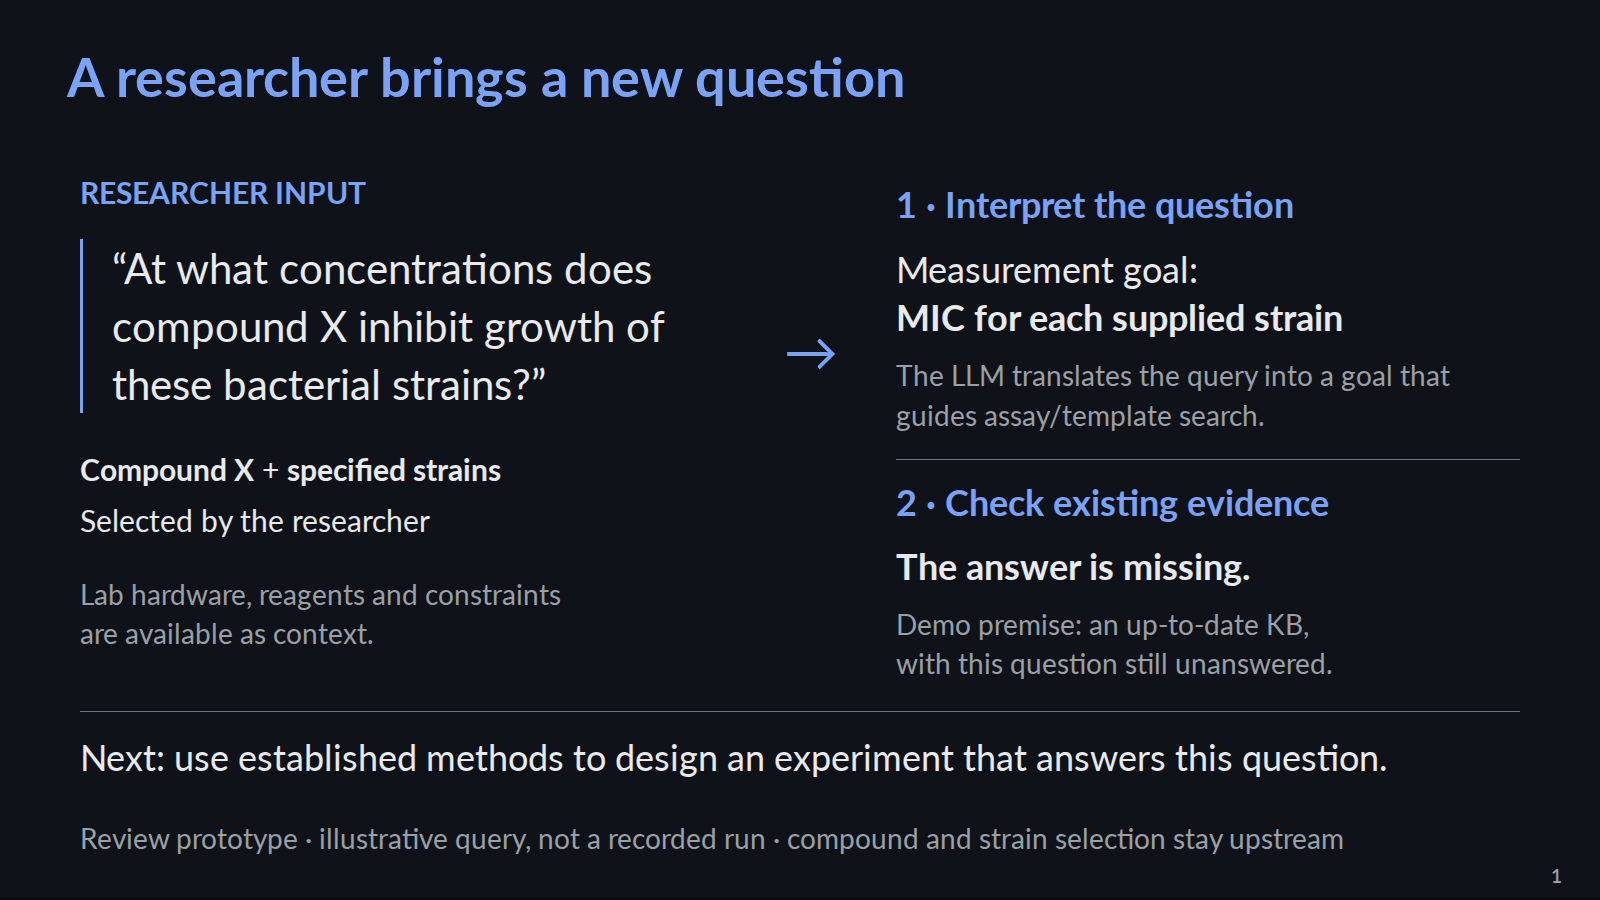
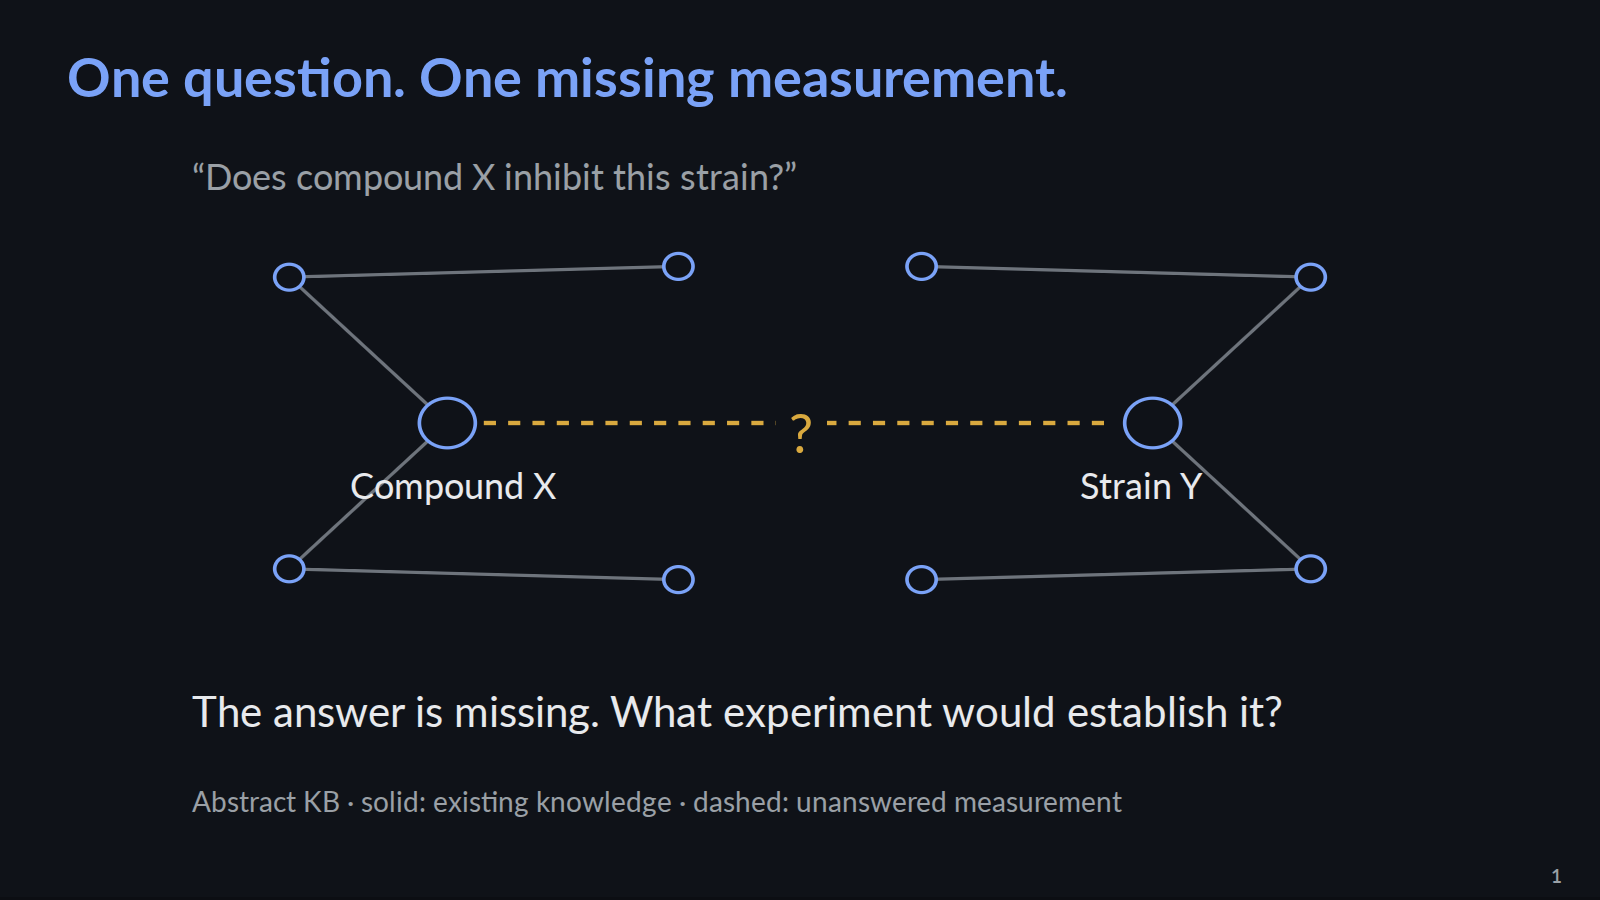
WIP: simplify question slide to an abstract missing-link sketch

diff --git a/slides/talks/question-prototype/story.js b/slides/talks/question-prototype/story.js
@@ -1,18 +1,9 @@
-// One review slide: researcher input, interpreted goal, explicit missing-answer premise.
-// TODO(final): replace the illustrative query with a reviewed demo query before claiming a recorded run.
+// Quick concept sketch: a question becomes a missing measurement in the KB.
+// TODO(final): abstract illustration only; these nodes are not a real graph export.
 {
-Deck.slide('researcher-question',{
- steps:3,
- notes:'Scope agreed in discussion: the researcher supplies the compound, bacterial strains and research query. Candidate ranking and strain selection are upstream. Lab context is already available in the repo. This is an illustrative input, not a recorded model response or an actual database search. For this demo we assume an up-to-date KB lacks the answer to a genuinely new question; establishing novelty via meta-analysis is out of scope. An LLM may interpret the natural-language goal to guide assay/template retrieval. A MIC measurement is the example goal, not a claim that every query maps to MIC. Existing evidence would be returned to the researcher, who decides whether to repeat an experiment. Known incompatibility must block downstream compilation/hardware. This slide ends before template selection and parameterization.',
- mount(frame,{css}){
- css(`.rq-query{position:absolute;left:5%;top:19%;width:42%;font-size:var(--t-lead);line-height:1.4}.rq-query blockquote{margin:.6em 0;padding-left:.7em;border-left:3px solid var(--accent)}.rq-label{font-size:var(--t-small);color:var(--accent);font-weight:700}.rq-inputs{font-size:var(--t-small);line-height:1.7;margin-top:1em}.rq-context{font-size:var(--t-caption);color:var(--muted);line-height:1.4}.rq-right{position:absolute;left:56%;right:5%;top:20%;font-size:var(--t-body);line-height:1.35}.rq-right h3{margin:0 0 .45em;font-size:var(--t-body);color:var(--accent)}.rq-right p{margin:.4em 0}.rq-goal{padding:0 0 .35em;border-bottom:1px solid var(--detail)}.rq-gap{margin-top:.5em}.rq-next{position:absolute;left:5%;right:5%;top:79%;font-size:var(--t-body);padding-top:.6em;border-top:1px solid var(--detail)}.rq-arrow{position:absolute;left:49%;top:35%;font-size:var(--t-heading);color:var(--accent)}.rq-caption{position:absolute;left:5%;right:5%;top:88%;font-size:var(--t-caption);color:var(--muted)}`);
- frame.innerHTML=`<h2 class="deck-heading">A researcher brings a new question</h2>
- <div class="rq-query"><div class="rq-label">RESEARCHER INPUT</div><blockquote>“At what concentrations does compound X inhibit growth of these bacterial strains?”</blockquote><div class="rq-inputs"><strong>Compound X</strong> + <strong>specified strains</strong><br>Selected by the researcher</div><p class="rq-context">Lab hardware, reagents and constraints<br>are available as context.</p></div>
- <div class="rq-arrow reveal-in" data-from="2">→</div>
- <div class="rq-right"><div class="rq-goal reveal-in" data-from="2"><h3>1 · Interpret the question</h3><p>Measurement goal:<br><strong>MIC for each supplied strain</strong></p><p class="rq-context">The LLM translates the query into a goal that guides assay/template search.</p></div><div class="rq-gap reveal-in" data-from="3"><h3>2 · Check existing evidence</h3><p><strong>The answer is missing.</strong></p><p class="rq-context">Demo premise: an up-to-date KB,<br>with this question still unanswered.</p></div></div>
- <div class="rq-next reveal-in" data-from="3">Next: use established methods to design an experiment that answers this question.</div>
- <p class="rq-caption">Review prototype · illustrative query, not a recorded run · compound and strain selection stay upstream</p>`;
- return{enter:(s,a)=>Deck.show(frame,s,a)};
- }
-});
+Deck.slide('missing-link',{steps:2,notes:'Abstract illustration, not measured data. Researcher supplies compound, strains and question. Solid links represent existing knowledge; dashed link marks the unanswered compound–strain measurement. The demo assumes an up-to-date KB. No claim that the model established scientific novelty.',mount(frame,{css}){
+css(`.ml-graph{position:absolute;left:12%;top:23%;width:76%;height:48%}.ml-graph svg{width:100%;height:100%;overflow:visible}.ml-edge{stroke:var(--detail);stroke-width:3}.ml-dot{fill:var(--bg);stroke:var(--accent);stroke-width:3}.ml-gap{stroke:var(--plot-2);stroke-width:4;stroke-dasharray:10 10}.ml-label{position:absolute;font-size:var(--t-body);color:var(--fg)}.ml-question{position:absolute;top:17%;left:12%;font-size:var(--t-body);color:var(--muted)}.ml-answer{position:absolute;top:76%;left:12%;font-size:var(--t-lead)}.ml-key{position:absolute;top:87%;left:12%;font-size:var(--t-caption);color:var(--muted)}.ml-mark{position:absolute;left:48%;top:44%;font-size:var(--t-heading);color:var(--plot-2);background:var(--bg);padding:0 .25em}`);
+frame.innerHTML=`<h2 class="deck-heading">One question. One missing measurement.</h2><div class="ml-question">“Does compound X inhibit this strain?”</div><div class="ml-graph"><svg viewBox="0 0 1000 400" preserveAspectRatio="none" aria-label="Abstract knowledge graph with a missing compound–strain measurement"><g class="ml-edge"><path d="M210 200 L80 65 M210 200 L80 335 M80 65 L400 55 M80 335 L400 345 M790 200 L920 65 M790 200 L920 335 M920 65 L600 55 M920 335 L600 345" fill="none"/></g><g class="ml-dot"><circle cx="80" cy="65" r="12"/><circle cx="80" cy="335" r="12"/><circle cx="400" cy="55" r="12"/><circle cx="400" cy="345" r="12"/><circle cx="920" cy="65" r="12"/><circle cx="920" cy="335" r="12"/><circle cx="600" cy="55" r="12"/><circle cx="600" cy="345" r="12"/><circle cx="210" cy="200" r="23"/><circle cx="790" cy="200" r="23"/></g><path class="ml-gap reveal-in" data-from="2" d="M240 200 L760 200"/></svg><div class="ml-label" style="left:13%;top:59%">Compound X</div><div class="ml-label" style="left:73%;top:59%">Strain Y</div><div class="ml-mark reveal-in" data-from="2">?</div></div><div class="ml-answer reveal-in" data-from="2">The answer is missing. What experiment would establish it?</div><div class="ml-key">Abstract KB · solid: existing knowledge · dashed: unanswered measurement</div>`;
+return{enter:(s,a)=>Deck.show(frame,s,a)};
+}});
 }

diff --git a/slides/talks/question-prototype/README.md b/slides/talks/question-prototype/README.md
@@ -1,7 +1,5 @@
-# Researcher-question prototype
+# Missing-link sketch
 
-One slide, three click states, based on the scope discussion of 2026-11-08. The researcher supplies compound, strains and query; lab context is available. The example query maps to MIC. For this demonstration we assume an up-to-date KB and a genuinely unanswered question, rather than claiming novelty from a failed search.
+Quick visual prototype: a researcher asks whether compound X inhibits strain Y. Existing knowledge appears as an abstract graph; the next click highlights the missing measurement. Solid links indicate existing knowledge, dashed indicates the unanswered query. These are illustrative nodes, not a real graph export.
 
-The query is illustrative, not a recorded model output. TODO(final): select a reviewed demo query and trace before claiming live behavior. The slide ends before template selection. Candidate/strain selection, broad literature meta-analysis and unconstrained procedural invention are not the demonstrated contribution.
-
-Preview only. This file is not loaded by the production biohack deck. Arrow keys advance; T switches theme.
+Scope premise: supplied compound/strains, up-to-date KB, genuinely new question. TODO(final): illustration only; do not present as an actual retrieval trace. Preview only; production does not load this slide.
